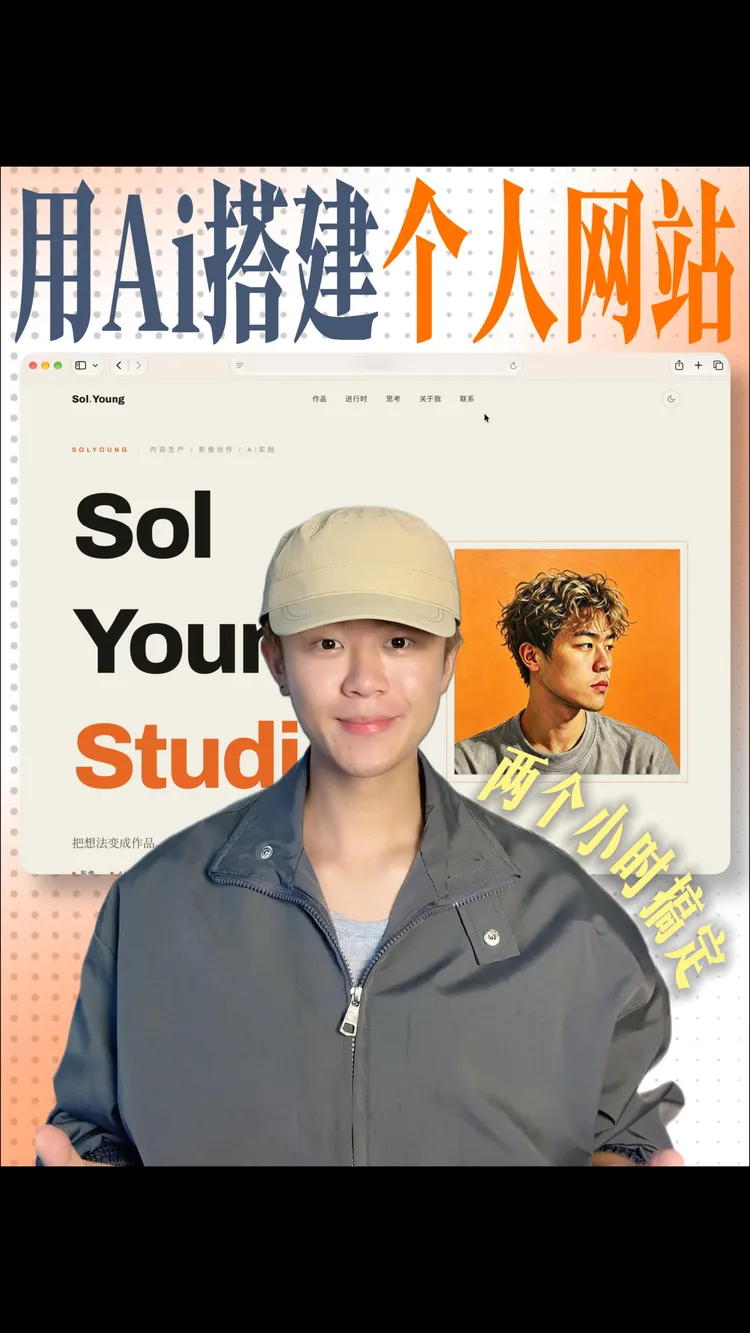
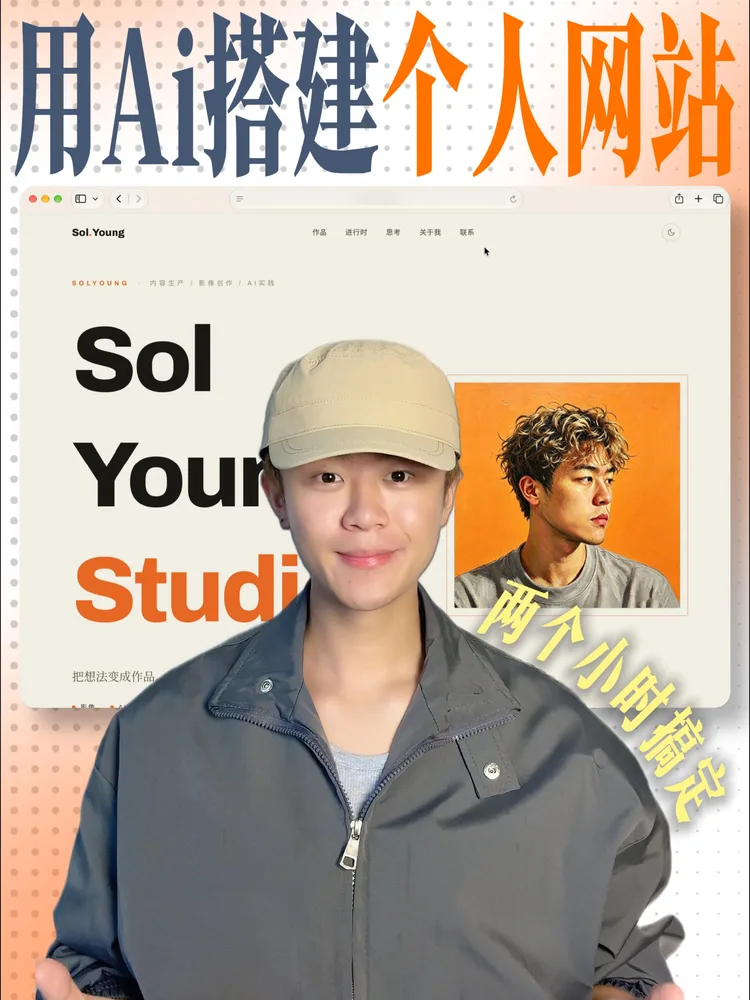
SolYoung 前两封面居中裁3:4，去除顶部黑边

diff --git a/index.html b/index.html
@@ -1352,8 +1352,8 @@ footer{border-top:1px solid var(--line);padding:44px 0 56px}
     {id:'yang-1', accountId:'yang', title:'理解内心所承受的一切，便能安然无恙', cover:'assets/video-cover-yang1.webp', platform:'抖音', publishedAt:'', desc:'氛围影像记录，窗边与阳光。', videoUrl:'https://v.douyin.com/jHvfaBYrFGc/', status:'published', coverPosition:'center'},
     {id:'yang-2', accountId:'yang', title:'记录是给未来自己的礼物', cover:'assets/video-cover-yang2.webp', platform:'抖音', publishedAt:'', desc:'实景与插画对照的瞬间记录。', videoUrl:'https://v.douyin.com/thI1l4X0QbU/', status:'published', coverPosition:'center'},
     {id:'yang-3', accountId:'yang', title:'别无所求，只想被阳光晒透', cover:'assets/video-cover-yang3.webp', platform:'抖音', publishedAt:'', desc:'阳光透过树叶洒下的慵懒片刻。', videoUrl:'https://v.douyin.com/BPe5d1Tlo80/', status:'published', coverPosition:'center'},
-    {id:'sol-1', accountId:'sol', title:'我花了不到两个小时，用 AI 搭建了一个个人网站', cover:'assets/video-cover-sol1.webp', platform:'抖音', publishedAt:'', desc:'用 AI 搭建个人网站的全过程记录。', videoUrl:'https://v.douyin.com/Sq6F2OZXT5g/', status:'published', coverPosition:'50% 12%'},
-    {id:'sol-2', accountId:'sol', title:'不要从赛道开始，从能力开始', cover:'assets/video-cover-sol2.webp', platform:'抖音', publishedAt:'', desc:'创作者圣经 · 关于赛道与能力的选择。', videoUrl:'https://v.douyin.com/lyNa4P4C_GY/', status:'published', coverPosition:'50% 10%'},
+    {id:'sol-1', accountId:'sol', title:'我花了不到两个小时，用 AI 搭建了一个个人网站', cover:'assets/video-cover-sol1.webp', platform:'抖音', publishedAt:'', desc:'用 AI 搭建个人网站的全过程记录。', videoUrl:'https://v.douyin.com/Sq6F2OZXT5g/', status:'published', coverPosition:'center'},
+    {id:'sol-2', accountId:'sol', title:'不要从赛道开始，从能力开始', cover:'assets/video-cover-sol2.webp', platform:'抖音', publishedAt:'', desc:'创作者圣经 · 关于赛道与能力的选择。', videoUrl:'https://v.douyin.com/lyNa4P4C_GY/', status:'published', coverPosition:'center'},
     {id:'sol-3', accountId:'sol', title:'不做网红，为什么也要做个人品牌？', cover:'assets/video-cover-sol3.webp', platform:'抖音', publishedAt:'', desc:'关于个人品牌与自媒体的思考。', videoUrl:'https://v.douyin.com/gFt575LWN-M/', status:'published', coverPosition:'50% 12%'},
     {id:'amb-1', accountId:'ambition', title:'放松，99%的人都会放弃，你不需要打败所有人', cover:'assets/video-cover-amb1.webp', platform:'抖音', publishedAt:'', desc:'个人成长 · 坚持与长期主义。', videoUrl:'https://v.douyin.com/BBW_X32fHoY/', status:'published', coverPosition:'center'},
     {id:'amb-2', accountId:'ambition', title:'你不会因为变老而失去肌肉，失去肌肉才会更快变老', cover:'assets/video-cover-amb2.webp', platform:'抖音', publishedAt:'', desc:'健康与衰老 · 关于肌肉与运动。', videoUrl:'https://v.douyin.com/tUs2AGybiZ4/', status:'published', coverPosition:'center'},

diff --git a/soyoung.html b/soyoung.html
@@ -1352,8 +1352,8 @@ footer{border-top:1px solid var(--line);padding:44px 0 56px}
     {id:'yang-1', accountId:'yang', title:'理解内心所承受的一切，便能安然无恙', cover:'assets/video-cover-yang1.webp', platform:'抖音', publishedAt:'', desc:'氛围影像记录，窗边与阳光。', videoUrl:'https://v.douyin.com/jHvfaBYrFGc/', status:'published', coverPosition:'center'},
     {id:'yang-2', accountId:'yang', title:'记录是给未来自己的礼物', cover:'assets/video-cover-yang2.webp', platform:'抖音', publishedAt:'', desc:'实景与插画对照的瞬间记录。', videoUrl:'https://v.douyin.com/thI1l4X0QbU/', status:'published', coverPosition:'center'},
     {id:'yang-3', accountId:'yang', title:'别无所求，只想被阳光晒透', cover:'assets/video-cover-yang3.webp', platform:'抖音', publishedAt:'', desc:'阳光透过树叶洒下的慵懒片刻。', videoUrl:'https://v.douyin.com/BPe5d1Tlo80/', status:'published', coverPosition:'center'},
-    {id:'sol-1', accountId:'sol', title:'我花了不到两个小时，用 AI 搭建了一个个人网站', cover:'assets/video-cover-sol1.webp', platform:'抖音', publishedAt:'', desc:'用 AI 搭建个人网站的全过程记录。', videoUrl:'https://v.douyin.com/Sq6F2OZXT5g/', status:'published', coverPosition:'50% 12%'},
-    {id:'sol-2', accountId:'sol', title:'不要从赛道开始，从能力开始', cover:'assets/video-cover-sol2.webp', platform:'抖音', publishedAt:'', desc:'创作者圣经 · 关于赛道与能力的选择。', videoUrl:'https://v.douyin.com/lyNa4P4C_GY/', status:'published', coverPosition:'50% 10%'},
+    {id:'sol-1', accountId:'sol', title:'我花了不到两个小时，用 AI 搭建了一个个人网站', cover:'assets/video-cover-sol1.webp', platform:'抖音', publishedAt:'', desc:'用 AI 搭建个人网站的全过程记录。', videoUrl:'https://v.douyin.com/Sq6F2OZXT5g/', status:'published', coverPosition:'center'},
+    {id:'sol-2', accountId:'sol', title:'不要从赛道开始，从能力开始', cover:'assets/video-cover-sol2.webp', platform:'抖音', publishedAt:'', desc:'创作者圣经 · 关于赛道与能力的选择。', videoUrl:'https://v.douyin.com/lyNa4P4C_GY/', status:'published', coverPosition:'center'},
     {id:'sol-3', accountId:'sol', title:'不做网红，为什么也要做个人品牌？', cover:'assets/video-cover-sol3.webp', platform:'抖音', publishedAt:'', desc:'关于个人品牌与自媒体的思考。', videoUrl:'https://v.douyin.com/gFt575LWN-M/', status:'published', coverPosition:'50% 12%'},
     {id:'amb-1', accountId:'ambition', title:'放松，99%的人都会放弃，你不需要打败所有人', cover:'assets/video-cover-amb1.webp', platform:'抖音', publishedAt:'', desc:'个人成长 · 坚持与长期主义。', videoUrl:'https://v.douyin.com/BBW_X32fHoY/', status:'published', coverPosition:'center'},
     {id:'amb-2', accountId:'ambition', title:'你不会因为变老而失去肌肉，失去肌肉才会更快变老', cover:'assets/video-cover-amb2.webp', platform:'抖音', publishedAt:'', desc:'健康与衰老 · 关于肌肉与运动。', videoUrl:'https://v.douyin.com/tUs2AGybiZ4/', status:'published', coverPosition:'center'},
